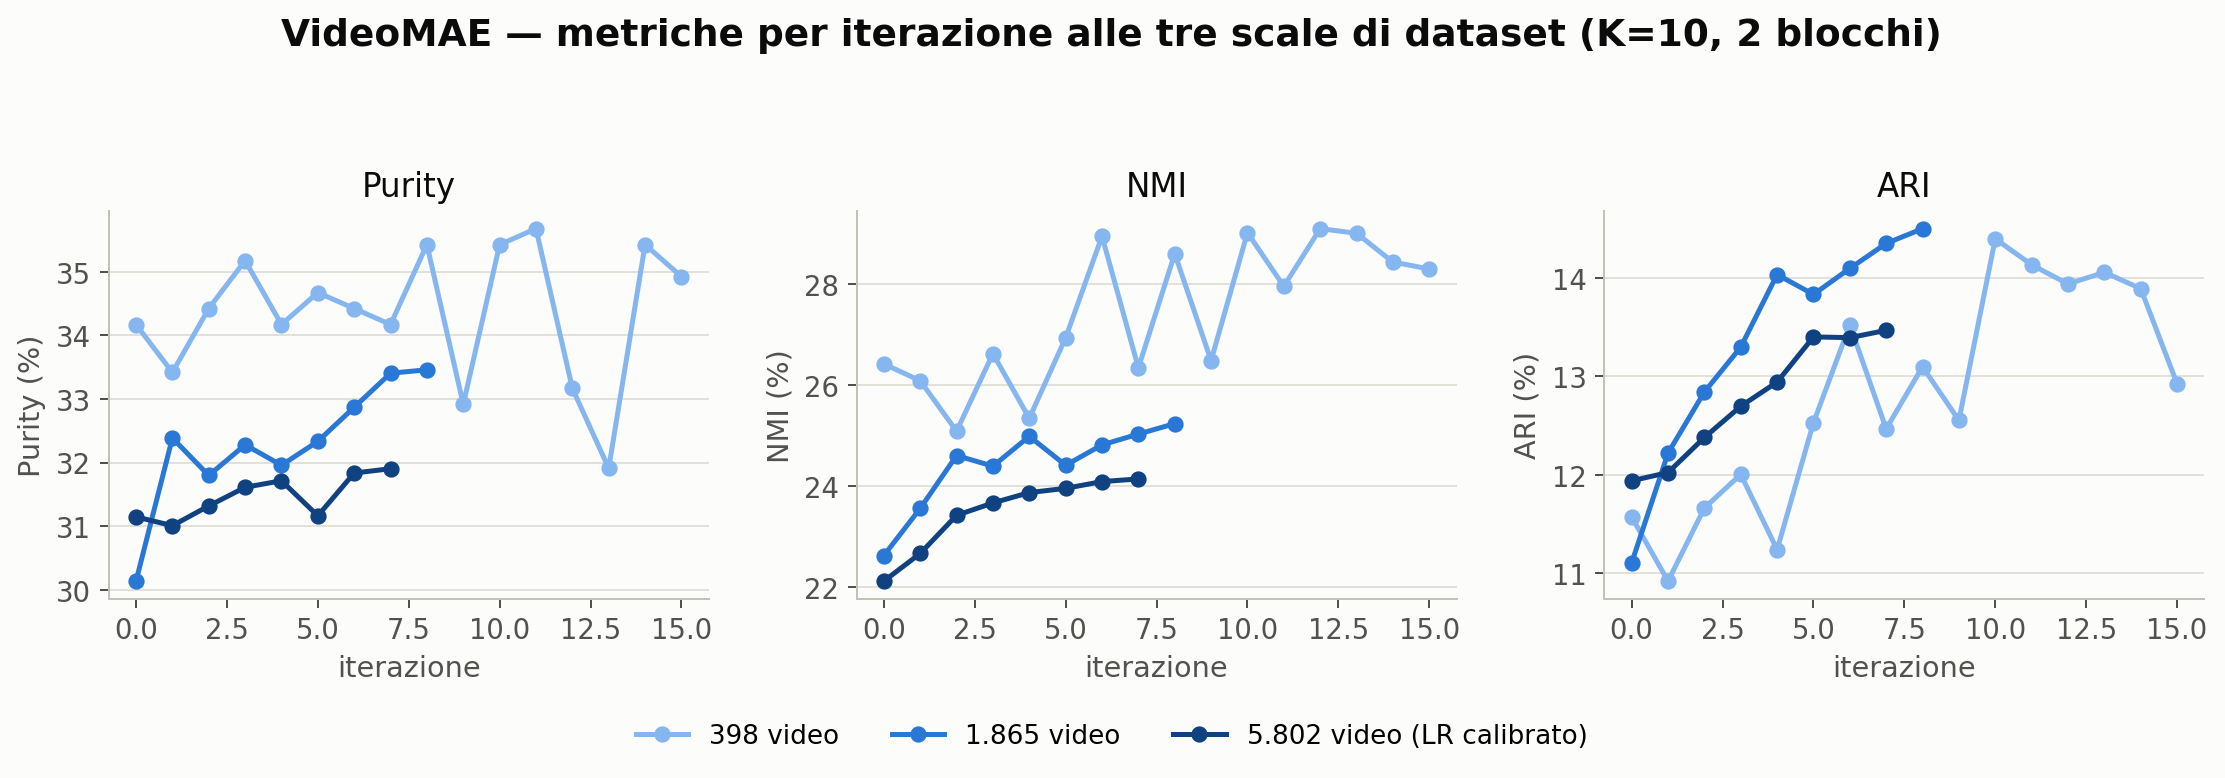
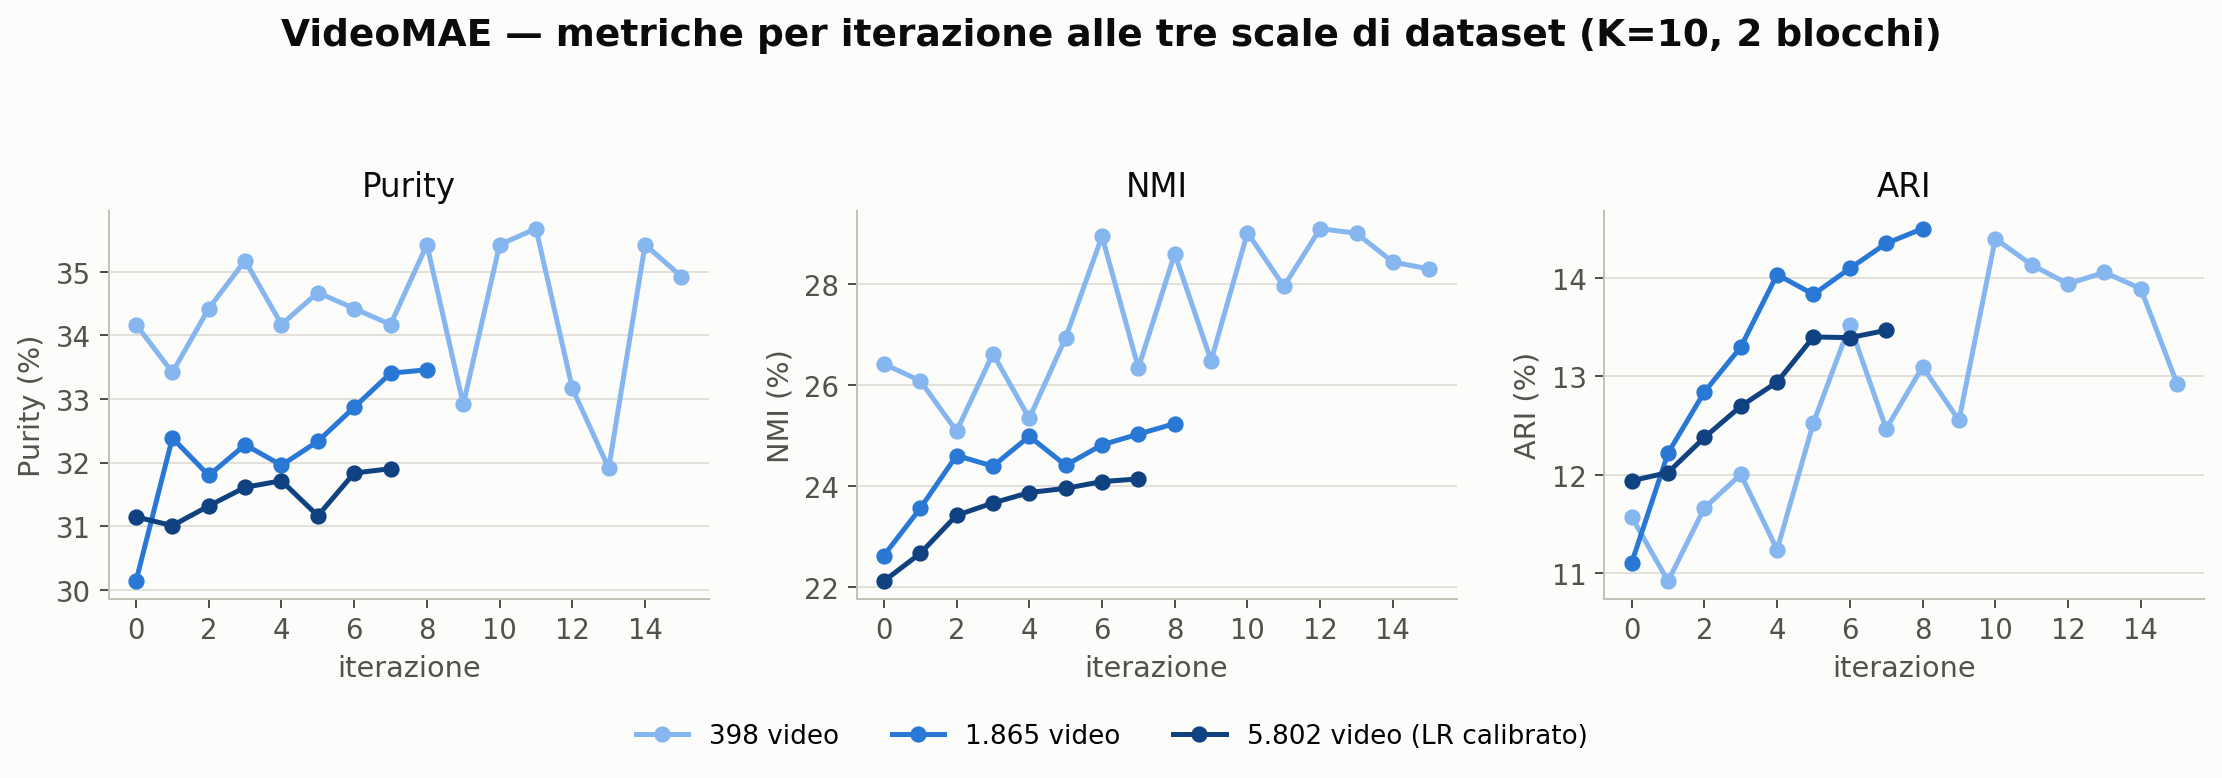
Force integer ticks on iteration axes in plots

diff --git a/src/utils/plot_results.py b/src/utils/plot_results.py
@@ -19,6 +19,7 @@ import matplotlib
 matplotlib.use("Agg")
 import matplotlib.pyplot as plt
 from matplotlib.patches import FancyArrowPatch, FancyBboxPatch
+from matplotlib.ticker import MaxNLocator
 
 # --- Palette (validata, vedi report): serie categoriche in ordine fisso,
 # rampa ordinale blu per le scale del dataset (più scuro = più dati) ---
@@ -52,6 +53,11 @@ def load_history(run_name: str) -> list[dict]:
     """Carica lo storico di un run dal suo ``history.json``."""
     with open(os.path.join(LOGS_DIR, run_name, "history.json"), encoding="utf-8") as f:
         return json.load(f)
+
+
+def integer_x_axis(ax: plt.Axes) -> None:
+    """Forza tick interi sull'asse x (le iterazioni sono conteggi discreti)."""
+    ax.xaxis.set_major_locator(MaxNLocator(integer=True))
 
 
 def style_axes(ax: plt.Axes, grid_axis: str = "y") -> None:
@@ -222,6 +228,7 @@ def fig_videomae_scaling_curves() -> None:
             ax.plot([e["iteration"] for e in hist], [e[metric] * 100 for e in hist],
                     marker="o", markersize=5.5, linewidth=2,
                     color=ORDINAL_BLUES[r_index], label=label)
+        integer_x_axis(ax)
         ax.set_xlabel("iterazione", fontsize=11.5, color=INK2)
         ax.set_ylabel(f"{METRIC_LABELS[metric]} (%)", fontsize=11.5, color=INK2)
         ax.set_title(METRIC_LABELS[metric], fontsize=13, color=INK)
@@ -325,6 +332,7 @@ def fig_stability() -> None:
         ax.axhline(0.95, color=MUTED, linewidth=1.4, linestyle="--")
         ax.text(0.6, 0.953, "soglia di stop (0.95)", fontsize=9.5, color=MUTED)
         ax.set_ylim(0.63, 1.0)
+        integer_x_axis(ax)
         ax.set_xlabel("iterazione", fontsize=11.5, color=INK2)
         ax.set_ylabel("NMI tra assegnazioni consecutive", fontsize=11.5, color=INK2)
         ax.set_title(backbone, fontsize=13, color=INK)
